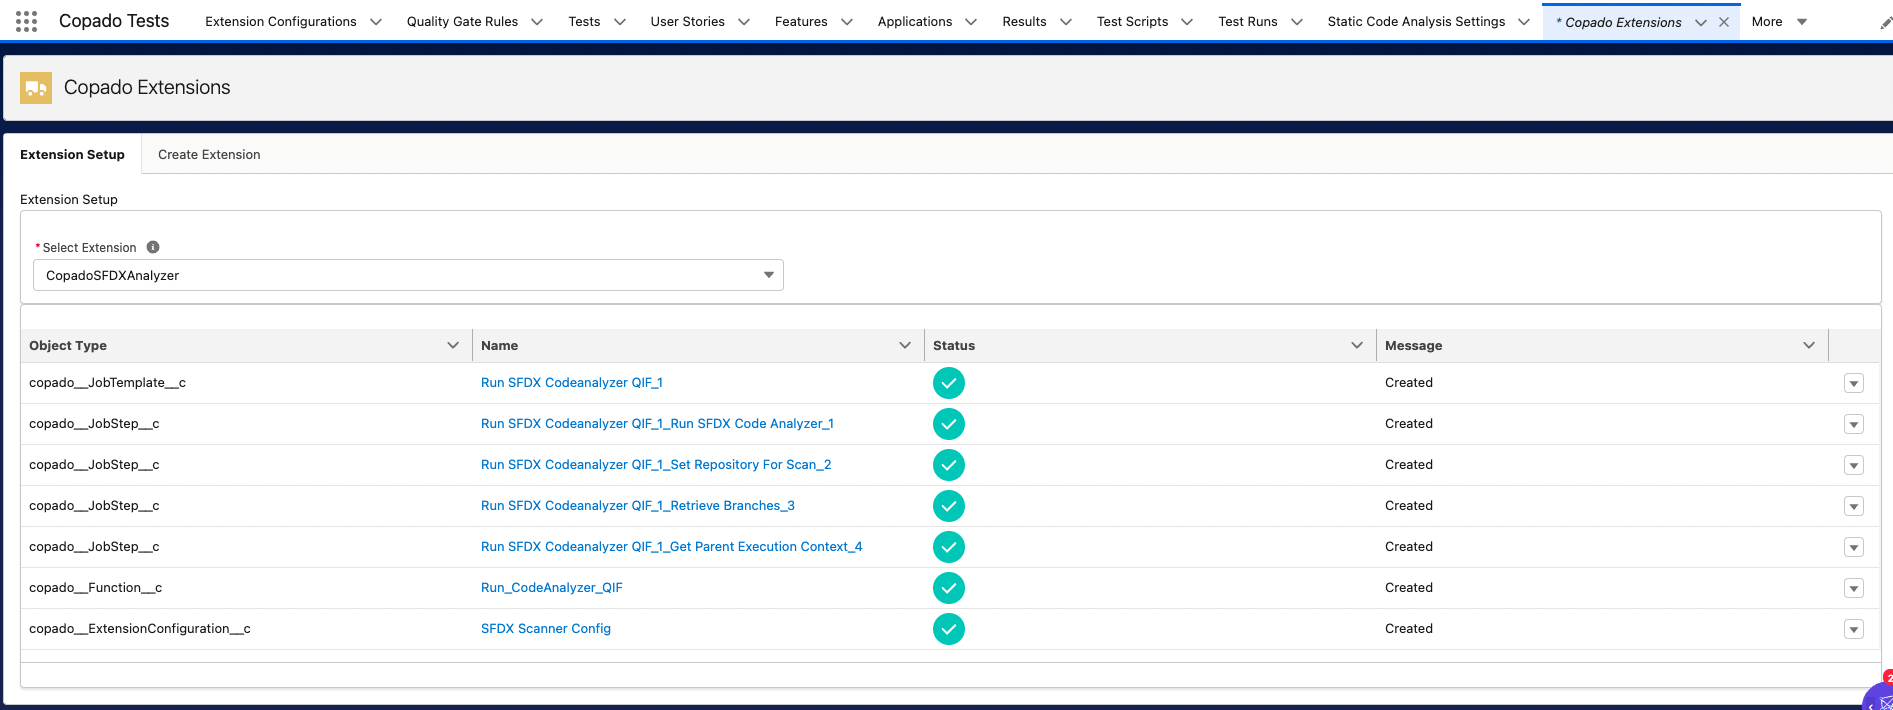
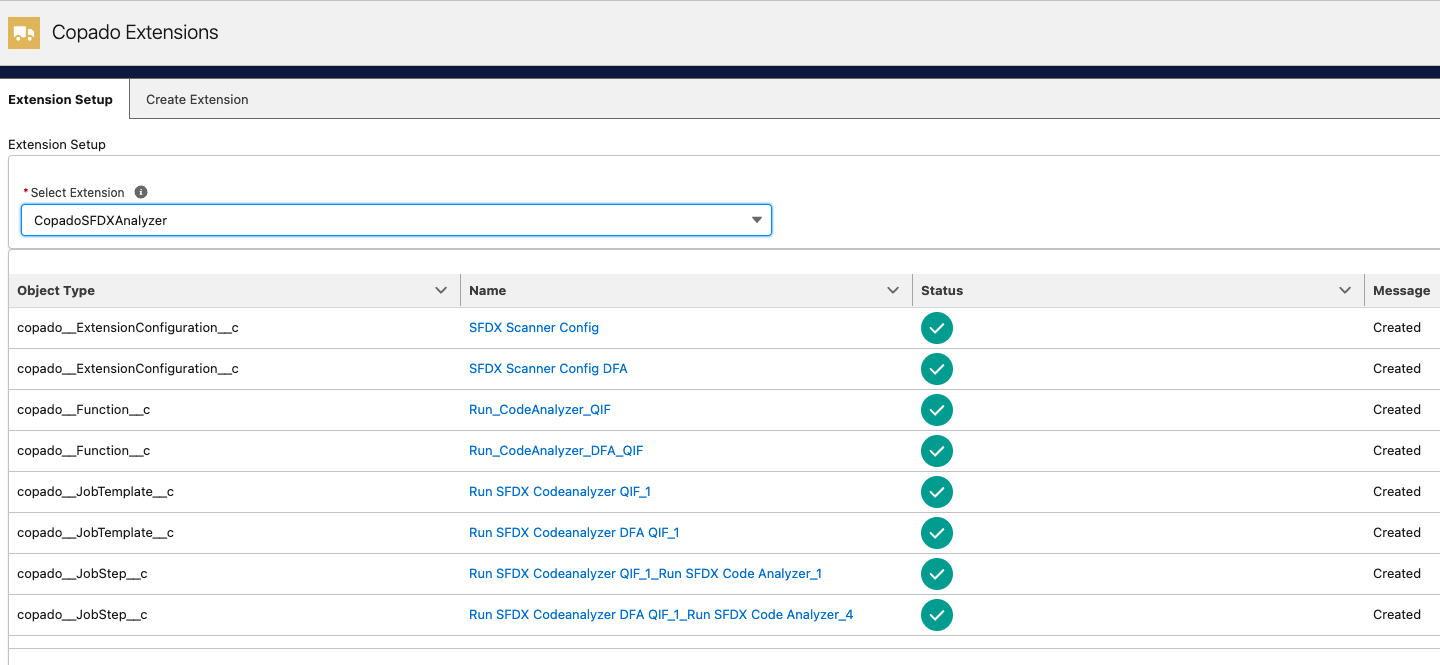
Updated Readme.

diff --git a/README.md b/README.md
@@ -9,24 +9,26 @@ To inspect your code, Code Analyzer uses multiple code analysis engines, includi
 # Installing the Extension
 
 ## Pre-Requisites
-* Install Copado v20.0 or higher
-* Install Copado Quality Tools extension v1.14 or higher
-* Install Copado DX Extension v3.3 or higher
-* Install the [latest version of Copado SFDX Analyzer](https://success.copado.com/s/listing-detail?recordId=a545p000000Xx1hAAC) from Copado's DevOps Exchange.
+* Install Copado v21.14 or higher
+* Install Copado Quality Tools extension v1.42 or higher
+* Install Copado DX Extension v4.19 or higher
+* Install the [latest version of Copado SFDX Analyzer](https://success.copado.com/s/listing-detail?recordId=a545p000000Xx1hAAC) from Copado's DevOps Exchange or check in [sfdx-project.json](./sfdx-project.json).
 
 ## Picklist Values
 
 * Create the Following Picklist values
-* Object: Extension Configuration, Field: Extension Tool, Value: `sfdx-scanner`
-* Object: Quality Gate Rule Condition, Field: Platform, Value: SFDX
-* Picklist Value Set: Copado Test Tool, Value: `sfdx-scanner`
+* Object: Extension Configuration, Field: Extension Tool, Value: `sfdx-scanner` & `sfdx-scanner-dfa`
+* Picklist Value Set: Copado Test Tool, Value: `sfdx-scanner` & `sfdx-scanner-dfa`
 
 ## Create The Functions and Job Templates
-Navigate to the “Copado Extensions” tab, select “Checkmarx” and press the button “Generate Extension Records”.
+Navigate to the “Copado Extensions” tab, select “CopadoSFDXAnalyzer” and press the button “Generate Extension Records”.
 
 ![Generate Extension Records](./images/generate-extension-records.png)
 
 ## Configure Function Parameters
+
+![Function Parameters](./images/function-parameters.png)
+
 * `severityThreshold` - Throws an error when violations are found with equal or greater severity than the provided value. Normalized severity values are: 1 (high), 2 (moderate), and 3 (low). Exit code is the most severe violation. The default OOB value set is `2`. Feel free to edit it as per your project needs.
 
 * `engine` - Specifies one or more engines to run. Submit multiple values as a comma-separated list. Valid values need to be from either of these `eslint,eslint-lwc,eslint-typescript,pmd,retire-js,cpd`.
@@ -45,10 +47,28 @@ Once saved, press the button “Activate” on the Quality Gate Rule record.
 
 ![Quality Gate Rule Condition](./images/quality-gate-rule-condition.png)
 
-**You are all set.**
+**Repeat these steps to create a QG and QGRC for `SFDX-Scanner-DFA` as well.**
+
+**After that you are all set.**
 
 To test the configuration, just perform a commit which contains ApexClass/LWC/AuraBundle on a user story on a SFDX platform Pipeline, and the Commit Action will enforce `SFDX Analyzer` after every commit.
 
-Code Analyzer is a Salesforce CLI plug-in that helps developers write better and more secure code.
+Here's some [test-data](./test-data/) that can be used to test both the Quality Gates
 
-To inspect your code, Code Analyzer uses multiple code analysis engines, including PMD, ESLint, RetireJS, and Salesforce Graph Engine. It identifies potential problems, from inconsistent naming to security vulnerabilities, including advanced vulnerabilities such as lack of Create Read Update Delete/Field-Level Security (CRUD/FLS) checks. Code Analyzer conveys these problems with easy-to-understand results. Run the code analyzer on-command in the CLI, or integrate it into your Continuous Integration/Continuous Development (CI/CD) framework so that you can run it against every code change or on a scheduled basis.
+## Demo Screenshots
+
+### Successful run with no violations and it's result![Successful Commit](./images/successful-commit.png)
+![No Violations](./images/no-violations.png)
+
+### Run with Violations
+![Failed Commit](./images/failed-commit-sfdx.png)
+![Violations Modal](./images/violations-modal-sfdx.png)
+
+The Result record can be further opened to read the violations better, as well as wrap text and search to filter violations.
+
+![Result Record](./images/violations-result-sfdx.png)
+
+![Wrapped Text](./images/violations-wrapped-search-sfdx.png)
+
+### Run with Violations for DFA
+![Result Record DFA](./images/violations-modal-dfa.png)
